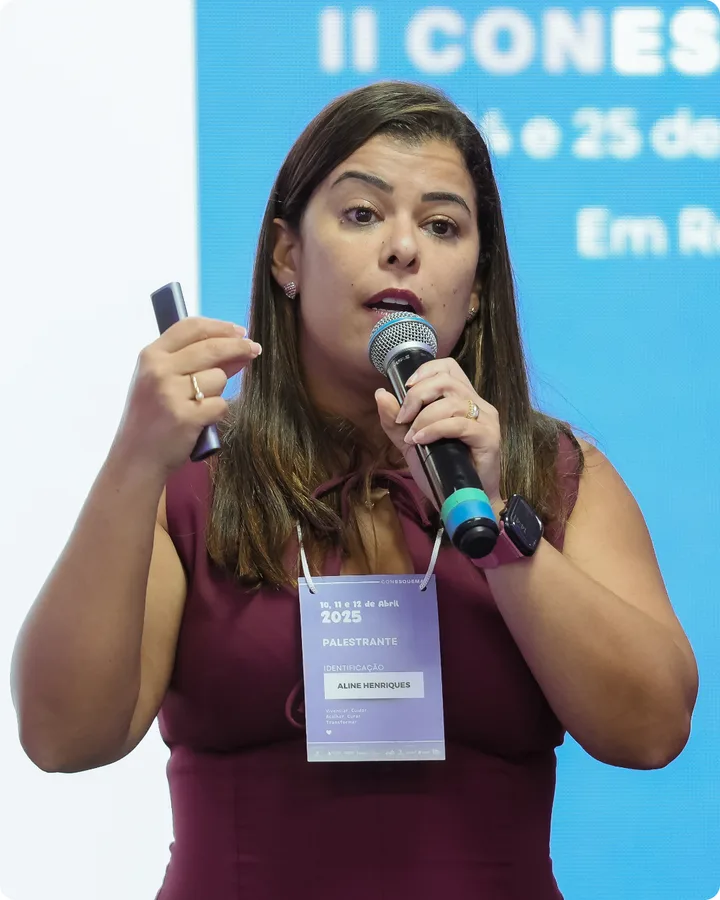
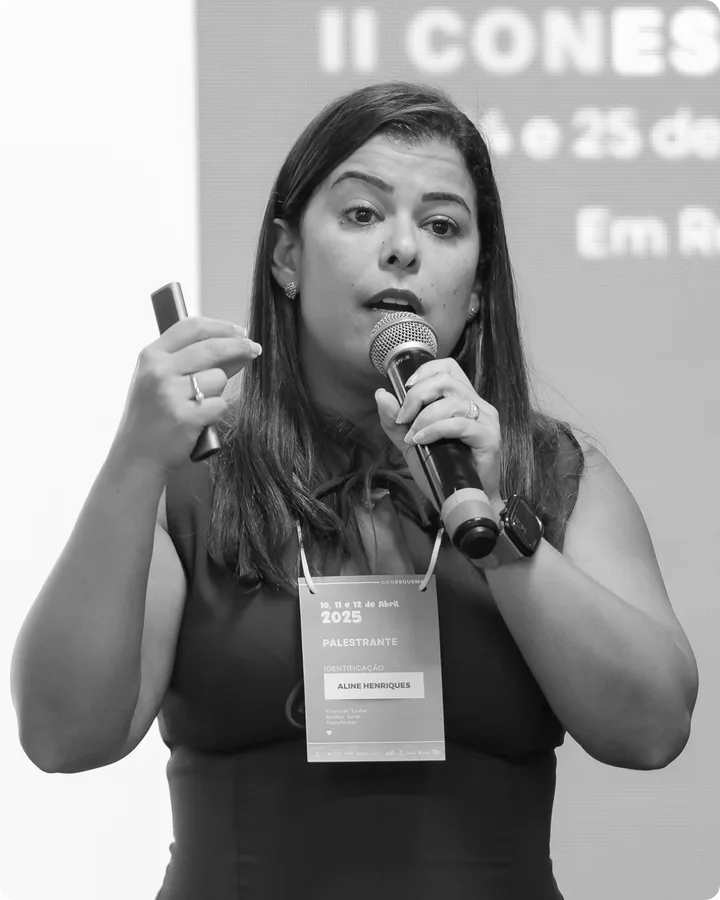
Homenageia Aline Reis, falecida em outubro de 2026
A pedido da organização, o card dela passa a ser uma homenagem: a mesma
fotografia, agora em preto e branco, e o nome precedido de "Em memória de".

Ela permanece na mesma posição da lista. O preto e branco distingue o card
dos demais sem precisar de aviso ou marcação extra na página.

diff --git a/src/data/palestrantes.ts b/src/data/palestrantes.ts
@@ -68,9 +68,12 @@ export const palestrantes2027: Palestrante[] = [
     nome: "Bruno Luiz Avelino Cardoso",
     foto: "/images/palestrantes/bruno-cardoso.webp",
   },
+  // Aline Reis faleceu em outubro de 2026. A pedido da organização, o card
+  // passou a ser uma homenagem: a mesma foto, em preto e branco, e o nome
+  // precedido de "Em memória de". Ela segue na posição em que já estava.
   {
     slug: "aline-reis",
-    nome: "Aline Reis",
+    nome: "Em memória de Aline Reis",
     foto: "/images/palestrantes/aline-reis.webp",
   },
   {
